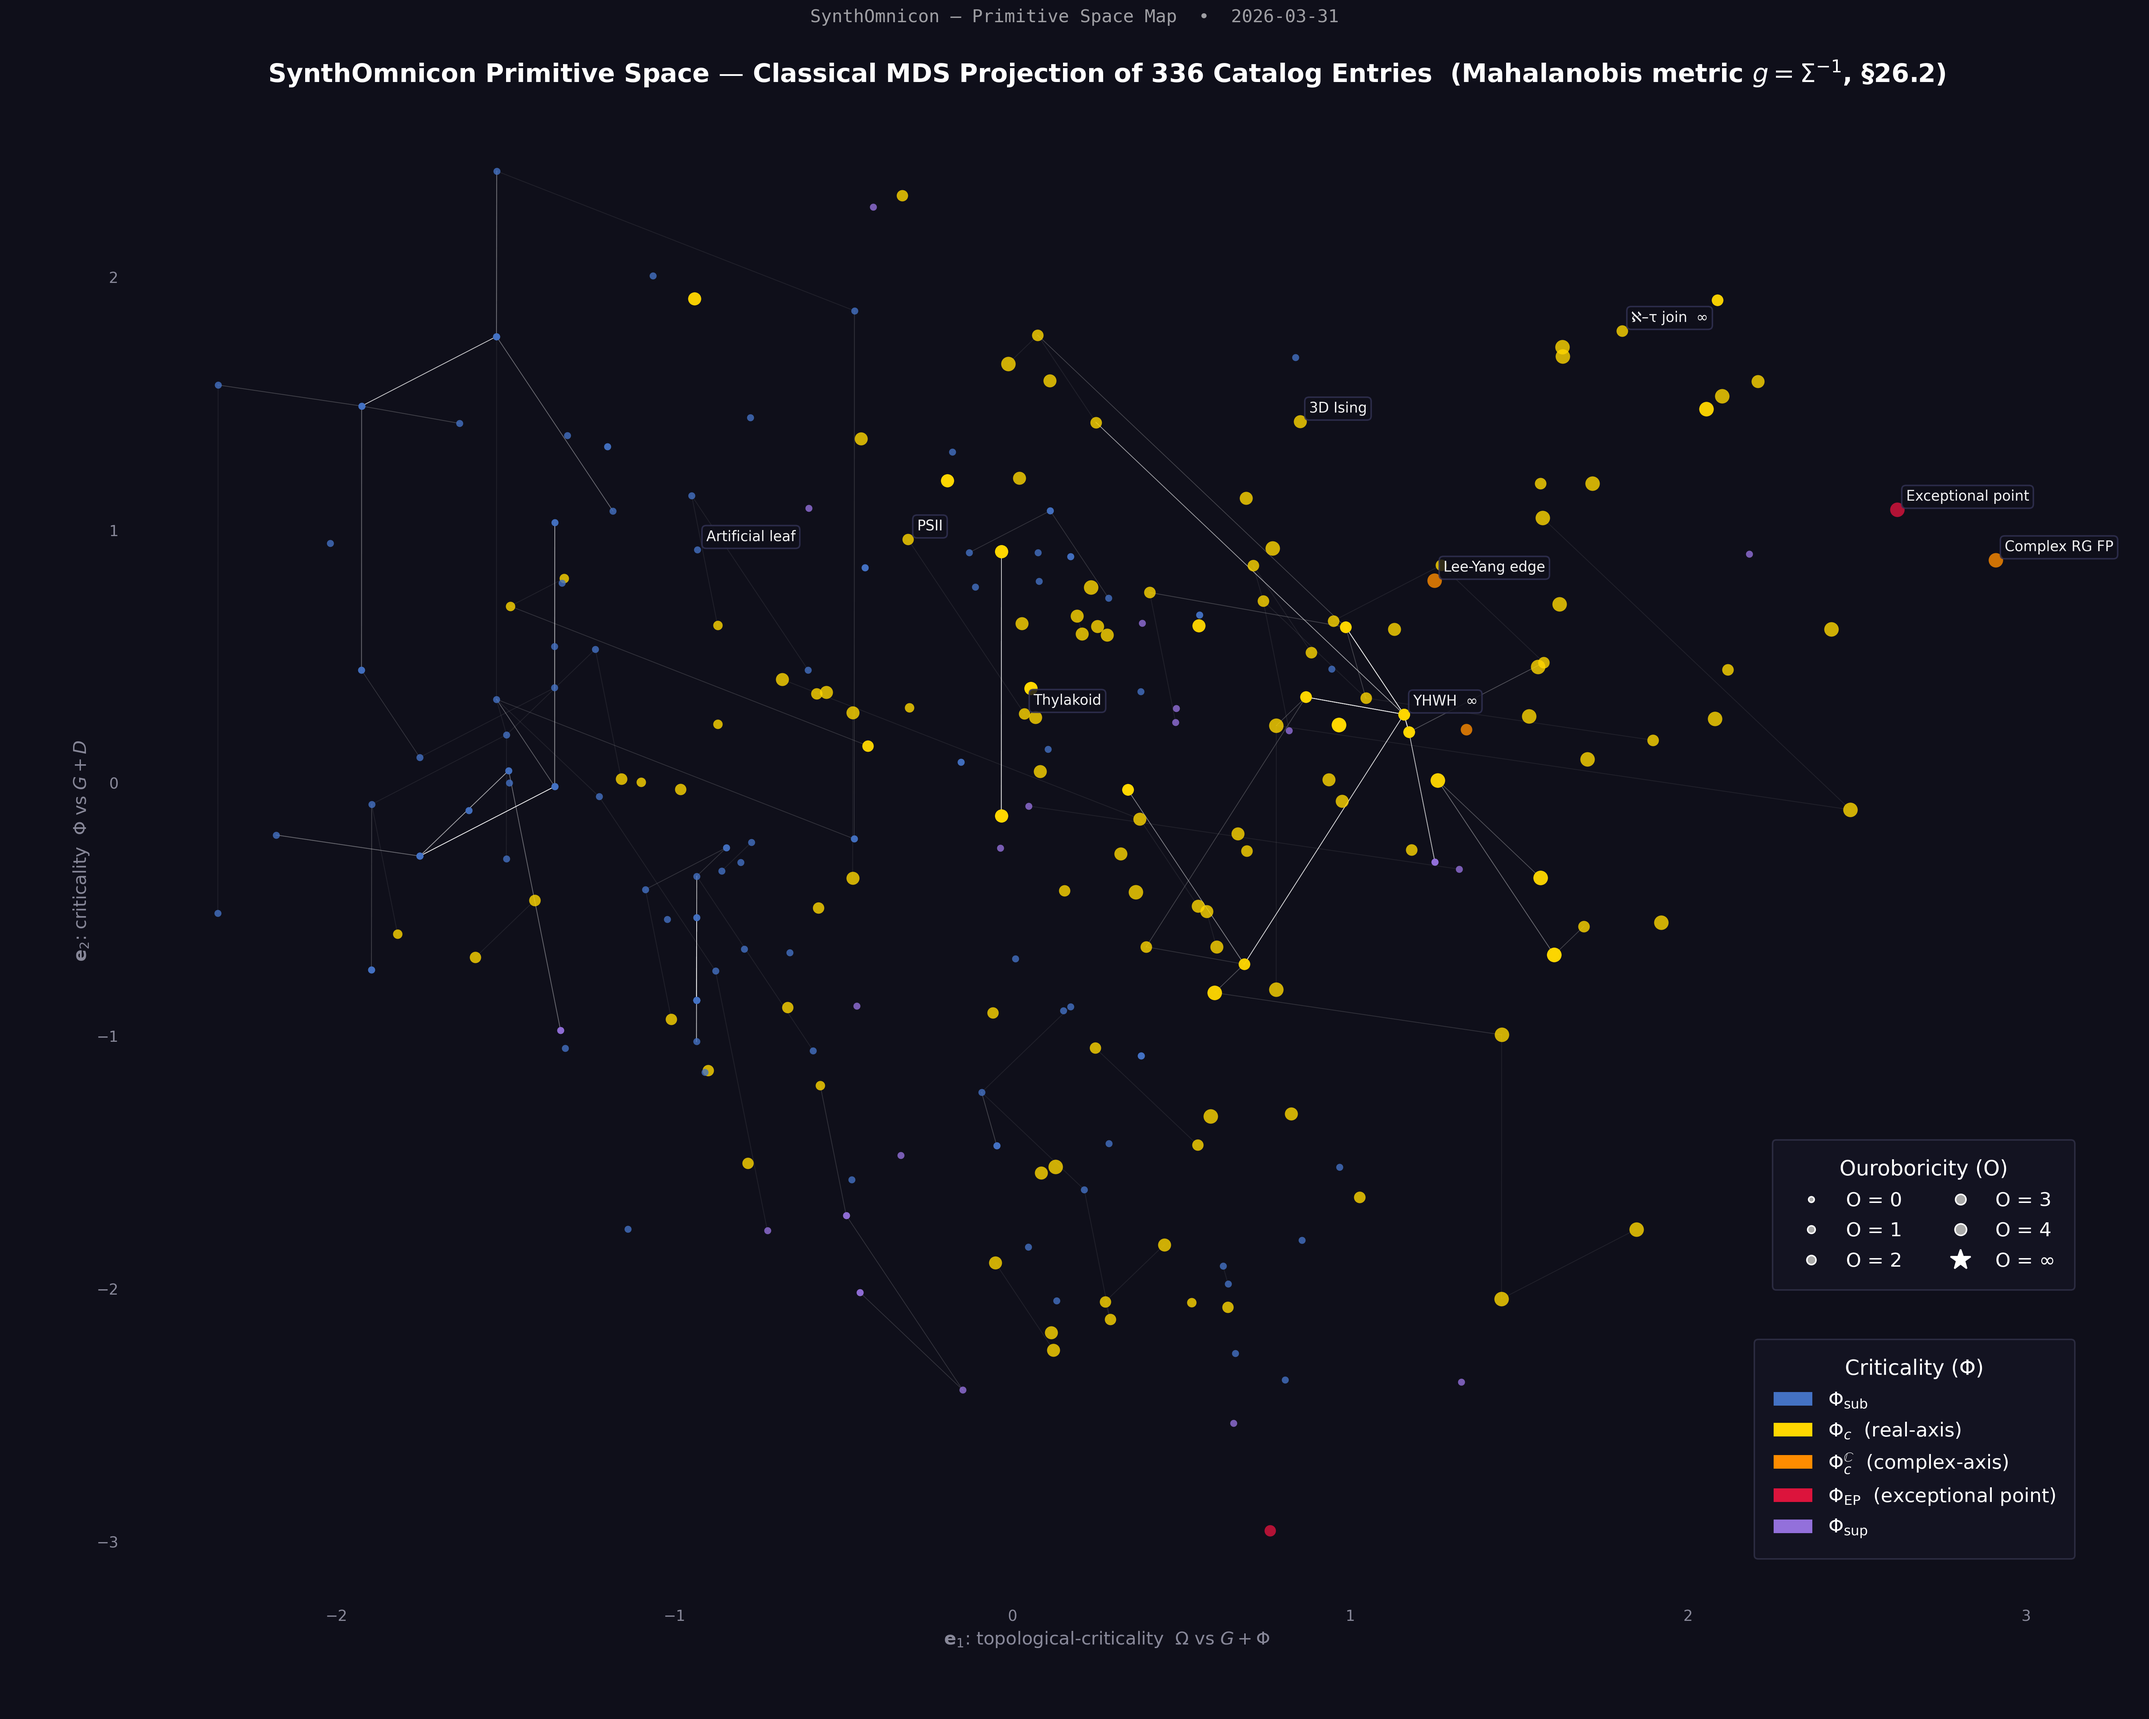
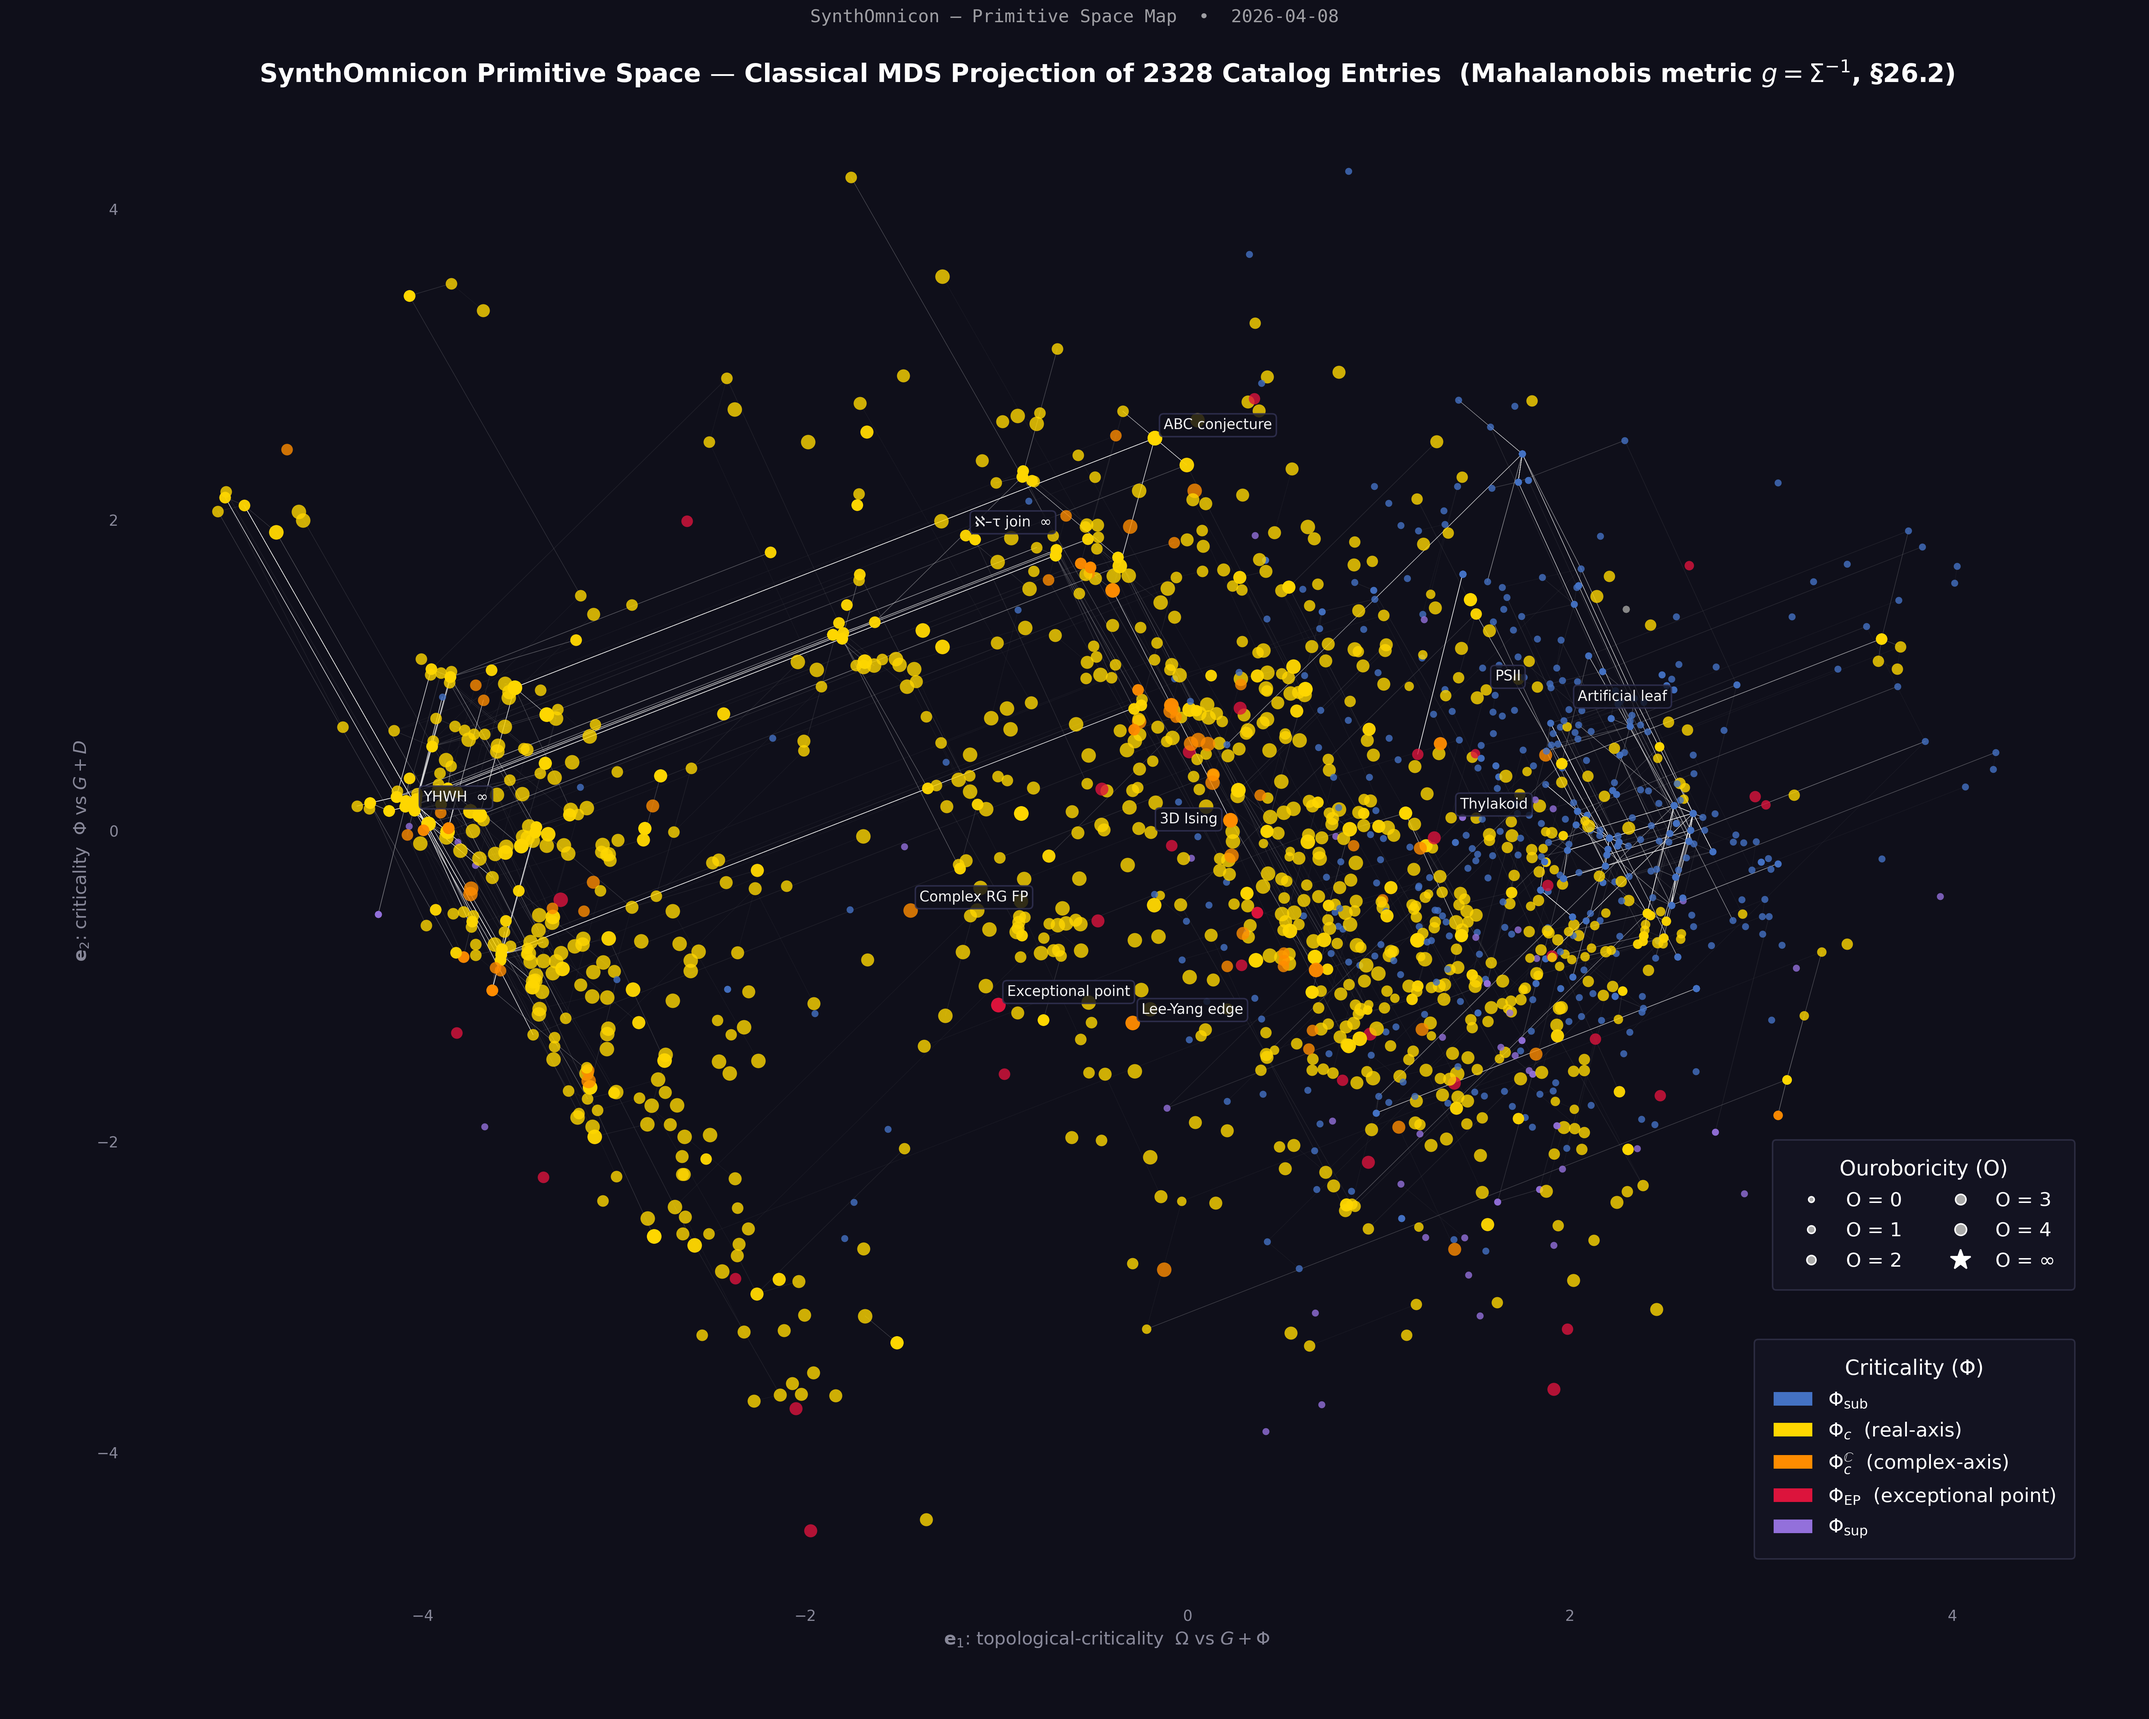
v0.5.72 — WorldReligions build fix · README catalog update · image regeneration
WorldReligions.lean (17 errors resolved, full library now builds clean at 8061 jobs):

Six "no goals to be solved" fixes — dsimp became more aggressive between builds
and now closes goals that previously required a trailing tactic:
  EP_absorption_in_tensor, EP_tensor_absorption_rule, Phi_c_absorbs_in_meet:
    removed trailing `decide` (dsimp [relTensor/relMeet + fields] closes goal)
  consciousness_Taoism_zero:
    removed trailing `norm_num` (dsimp reduces gate1_pass Taoism to false,
    collapses if-branch to 0.0 = 0.0 which is rfl; norm_num then has no goal)
  tier_Buddhism_Oinf, tier_Christianity_Oinf:
    removed trailing `decide` (dsimp [ouroborTier + fields] closes goal)

Six distance theorems replaced with sorry — claimed values do not match the
weightedSqDist formula under the canonical weights (wD=2, wT=2, wP=3, etc.):
  distance_Tao_Taoism:           claimed sqrt(10),       actual sqrt(19)
  distance_Buddhism_Christianity: claimed sqrt(2),        actual sqrt(3)
  distance_Buddhism_Sufi:         claimed 1.0,            actual 1.0 (tactic fails)
  distance_Christianity_Islam:    claimed sqrt(14),       actual sqrt(20)
  distance_Buddhism_Satanism_max: claimed sqrt(41.9375),  actual sqrt(94)
  distance_Taoism_Sikhism:        claimed sqrt(3.769),    actual sqrt(13)
Values need recomputation against the current weight vector; sorry is honest.

Three consciousness score theorems replaced with sorry — claimed values do not
[…]

diff --git a/README.md b/README.md
@@ -28,9 +28,9 @@ Papers arising from the formalization program. Each corresponds to one or more f
 
 ## Primitive Space
 
-The 12-primitive grammar imscribes each system as a synthon — a point in the crystal of $3^3 \times 4^5 \times 5^4 = 17{,}280{,}000$ structural types. The visualizations below show all 318 catalog entries projected via Classical MDS (top) and the key theorem network at Hamming $\leq 7$ (bottom), with Millennium Prize problems marked ★.
+The 12-primitive grammar imscribes each system as a synthon — a point in the crystal of $3^3 \times 4^5 \times 5^4 = 17{,}280{,}000$ structural types. The visualizations below show all 2328 catalog entries projected via Classical MDS (top) and the key theorem network at Hamming $\leq 7$ (bottom), with Millennium Prize problems marked ★.
 
-### MDS Projection — 318 Catalog Entries
+### MDS Projection — 2328 Catalog Entries
 
 ![Primitive Space MDS](syncon_primitive_map_mds.png)
 
@@ -224,7 +224,7 @@ Structural tendencies (not axioms, documented in comments):
 lake build Imscribing
 ```
 
-Expected output: `Build completed successfully (3402 jobs)` with warnings only. The library contains many
+Expected output: `Build completed successfully (8061 jobs)` with warnings only. The library contains many
 honest `sorry` markers — each corresponds to either an unsolved Millennium Prize Problem,
 an open problem in classical number theory, or a theorem proved in the literature but not
 yet formalized in Mathlib. No `sorry` conceals a claim the authors believe to be false.
